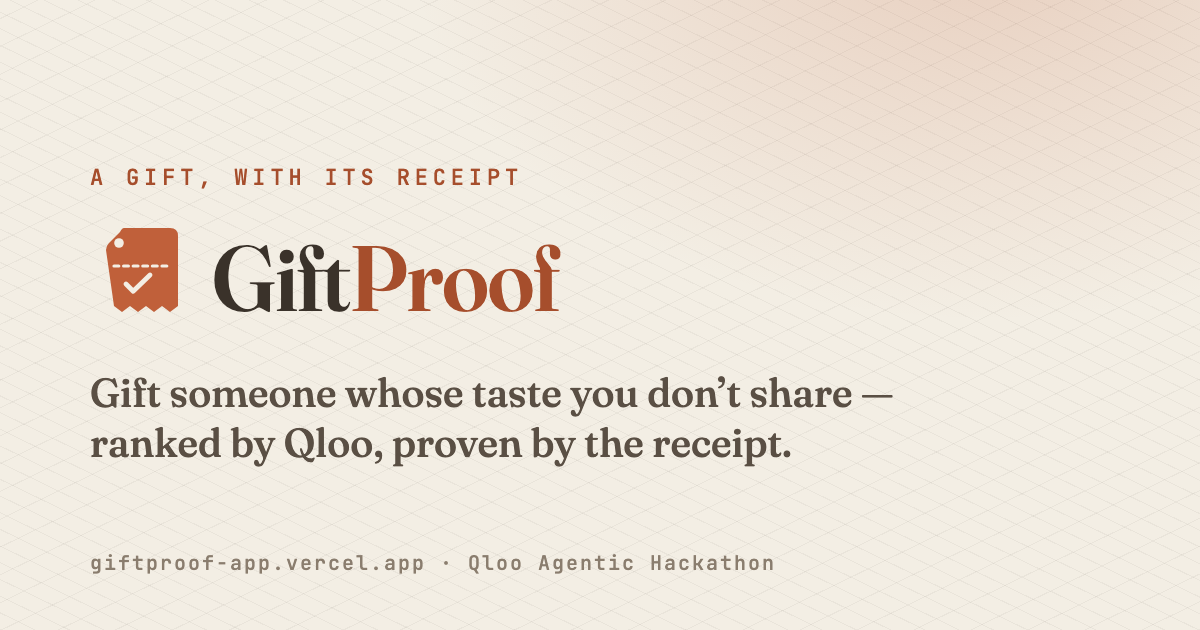
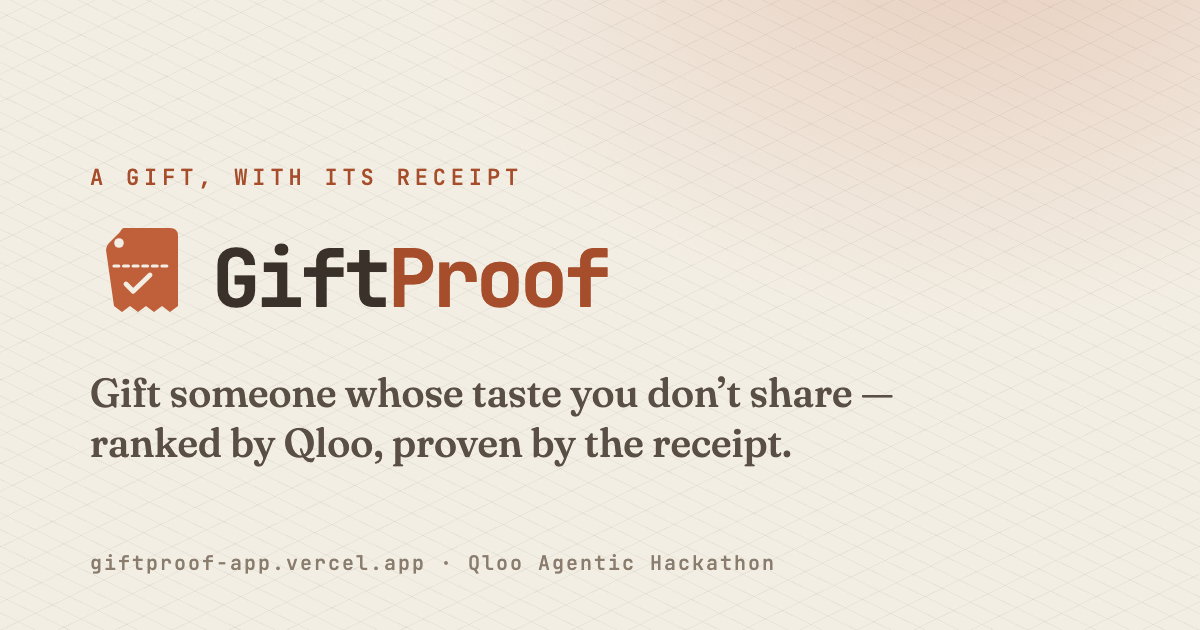
brand: correct wordmark to bold JetBrains Mono two-tone lockup (the approved mark); add Devpost submission pack
Wordmark was mistakenly set to Fraunces serif; restored to the approved bold mono 'GiftProof'
(Gift charcoal + Proof terracotta) in logo.svg, logo.png lockup, OG card, and the app header.

Changed region(s): [[0.185, 0.3921, 0.5242, 0.5127]]

diff --git a/src/app/layout.tsx b/src/app/layout.tsx
@@ -56,7 +56,7 @@ function SiteMark() {
       <div className="mx-auto flex max-w-5xl items-center gap-2.5 px-6 py-3">
         <Link href="/" aria-label="GiftProof home" className="group flex items-center gap-2.5">
           <ReceiptCorner />
-          <span className="font-mono text-[12px] font-semibold uppercase tracking-[0.22em] text-ink">
+          <span className="font-mono text-[16px] font-bold tracking-[-0.02em] text-ink">
             Gift<span className="text-accent-ink">Proof</span>
           </span>
         </Link>

diff --git a/submission/devpost.md b/submission/devpost.md
@@ -1,0 +1,113 @@
+# GiftProof — Devpost submission pack
+
+Copy each block into the matching Devpost field. No em-dashes (per house style); Markdown is supported in "About the project".
+
+---
+
+## Project name (max 60 chars)
+
+```
+GiftProof — a gift, with its receipt
+```
+
+## Elevator pitch (max 200 chars)
+
+```
+Type one sentence about someone. Qloo's taste graph finds a gift you would never have guessed across brands, film, books and places, each proven by a live receipt that shows exactly why.
+```
+
+## "Try it out" links
+
+- **Live demo:** https://giftproof-app.vercel.app
+- **Public code repo:** https://github.com/dmustapha/giftproof
+
+## Built with (tags)
+
+```
+next.js, react, typescript, tailwindcss, qloo, qloo-taste-api, 0g-compute, llm, agent, zod, vercel, lru-cache, node.js
+```
+
+---
+
+## About the project (paste into "Project Story", Markdown)
+
+## Inspiration
+
+Buying a gift for someone whose taste you do not share (a parent, an in-law, a new partner) is a near universal, recurring problem. Keyword search and a generic chatbot both collapse to the giver's taste bubble or a safe cliche. We wanted an agent that reads only public taste, lets a real behavioral graph do the bridging across categories, and then proves every choice instead of asking you to trust it.
+
+## What it does
+
+You type one sentence about someone, for example "my sister is obsessed with Succession, Aesop skincare, and A24 films." A 0G Compute agent reads it, extracts the tastes, and chooses 2 to 4 giftable domains to target. **Qloo's taste graph then ranks real gifts by cross domain affinity**, and every pick arrives with a live **receipt** that shows which taste drove it and how strongly. Remove or add a taste chip and the whole grid re prints live, with the cross domain connections redrawing in real time.
+
+## What makes it Qloo powered
+
+Qloo's own kill test is: "if your submission would work the same without Qloo, you are building the wrong thing." Delete the Qloo call and GiftProof returns nothing. The entire product is Qloo's cross domain affinity plus explainability made visible:
+
+- A chatbot can guess "buy her an A24 tote." It cannot know that fans of **Aesop, A24, and Succession** over index on a specific brand. That correlation lives in Qloo's 250M plus entity graph, not in language.
+- **Every number on screen is a real Qloo field:** affinity (0 to 1), explainability score (which taste drove the pick), and rank position. Nothing is fabricated.
+- **The language model never ranks.** It extracts tastes and writes narration only. Qloo's numbers decide the order of every gift.
+
+Five Qloo surfaces are load bearing and zero are decorative: `/v2/insights` cross domain ranking and `feature.explainability` (the core differentiator), `/search` and `/v2/tags` for resolving tastes to real entity IDs, and demographic signals for sharper ranking.
+
+## How we built it
+
+1. **Extract:** the 0G Compute agent reads the free text sentence and pulls out the recipient's tastes plus 2 to 4 giftable domains. It extracts, it never ranks.
+2. **Resolve:** each taste is resolved to a real Qloo entity ID via `/search`, or sharpened to a tag via `/v2/tags`. No recipient names or PII are ever sent to Qloo.
+3. **Rank cross domain:** `/v2/insights` is fanned out across the chosen domains in parallel, seeded with the resolved entities, and the picks are ordered by Qloo's real `query.affinity`.
+4. **Refine (gated):** if the first ranking is weak (low top affinity or thin explainability), the agent adds a tag signal and re queries once. Sharp first results skip this hop to keep latency low.
+5. **Resolve to a gift:** an entity to gift resolver maps each Qloo chosen pick to a buyable destination, keeping Qloo the chooser.
+6. **Prove it:** every pick carries a split "Qloo says / we chose" receipt built from Qloo's real explainability contributors, never a fabricated score. Swap a seed and the receipt recomputes live.
+
+The reference journey ("my sister is obsessed with Succession, Aesop, and A24") makes **8 Qloo calls** (5 resolution calls plus a 3 domain parallel insights fan out) and returns **12 cross domain ranked picks** across **3 agent chosen domains**, each with real explainability contributors. Every headline number is recomputable from committed real Qloo output by `npm run verify-claims`, which refuses read back and exits non zero on any mismatch.
+
+## Honesty invariants (they bind the UI)
+
+GiftProof is a trust product, so honesty is enforced in code, not promised in copy:
+
+- **Qloo always ranks.** The model never invents an order.
+- **Zero PII:** no name, email, or shipping fields, and nothing personal is sent to Qloo.
+- **No fabricated numbers:** rank bands and affinities are real Qloo fields or a labeled rank band fallback, never a made up percentage.
+- **Honest failure:** when 0G is unreachable the app shows a labeled `EXTRACTION_UNAVAILABLE` state; when Qloo is unreachable it serves a labeled empty state. It never fakes a pick.
+- **Aggregate framing only** ("fans of X over index on Y"), with the raw Qloo response shown on the `/proof` page.
+
+## Challenges we ran into
+
+- **Reading Qloo's real explainability shape.** The useful signal lives under `query.explainability` keyed by the input taste, not in a top level array. Getting the per pick contributors right is what makes the receipt real.
+- **Quota frugality.** The hackathon key has limits, so we added an in process semaphore, an LRU cache, request debounce, and stale cache on 429 to keep live demos within budget.
+- **Keeping the agent honest.** It was tempting to let the LLM re rank or fill gaps. We drew a hard line: the model extracts and narrates, Qloo ranks, and degraded states are labeled rather than hidden.
+
+## Accomplishments that we are proud of
+
+- **The receipt is a real instrument, not decoration.** It is built from live Qloo data and recomputes on every taste swap.
+- **Verifiable claims.** A claims ledger recomputes every cited number from committed real Qloo output.
+- **5 of 5 Qloo surfaces are load bearing**, and the whole experience falls apart without Qloo, which is exactly the point.
+
+## What we learned
+
+Cross domain taste is a genuinely different capability from search or language. The hardest and most valuable design work was not generating text, it was making the correlation legible and provable so a gift giver actually trusts a surprising suggestion.
+
+## What's next
+
+Deeper gift catalog and per domain deep links, richer demographic and geo signals, and a saved journeys feature so a giver can revisit and share a proven gift.
+
+---
+
+## Additional info (for judges, not public)
+
+- **When did you begin your project?** During the Qloo Agentic Hackathon window (October 2026).
+- **Public URL:** https://giftproof-app.vercel.app
+- **Public code repo:** https://github.com/dmustapha/giftproof
+- **If existing, how did you upgrade it with Qloo?** New project built for this hackathon. Qloo is the core, not an add on: cross domain `/v2/insights` with explainability ranks every gift, `/search` and `/v2/tags` resolve tastes, and demographic signals sharpen results. Remove Qloo and the app returns nothing.
+
+## Requirements checklist
+
+- Live, externally hosted demo: https://giftproof-app.vercel.app (public, verified end to end).
+- Public repo with all source, assets, and run instructions: https://github.com/dmustapha/giftproof
+- Text description of what it does and what makes it Qloo powered: the story above.
+- Open source license in the repo About section: MIT (`LICENSE`).
+- Demo video: not required by this hackathon.
+
+## Media
+
+- Image gallery (3:2 recommended): use the three app screenshots in `docs/images/` (landing, find a gift, results).
+- Thumbnail: `public/og-image` style card or any of the screenshots.

diff --git a/README.md b/README.md
@@ -1,5 +1,5 @@
 <p align="center">
-  <img src="public/logo.svg" alt="GiftProof" width="300" />
+  <img src="public/logo.png" alt="GiftProof" width="340" />
 </p>
 
 # GiftProof
